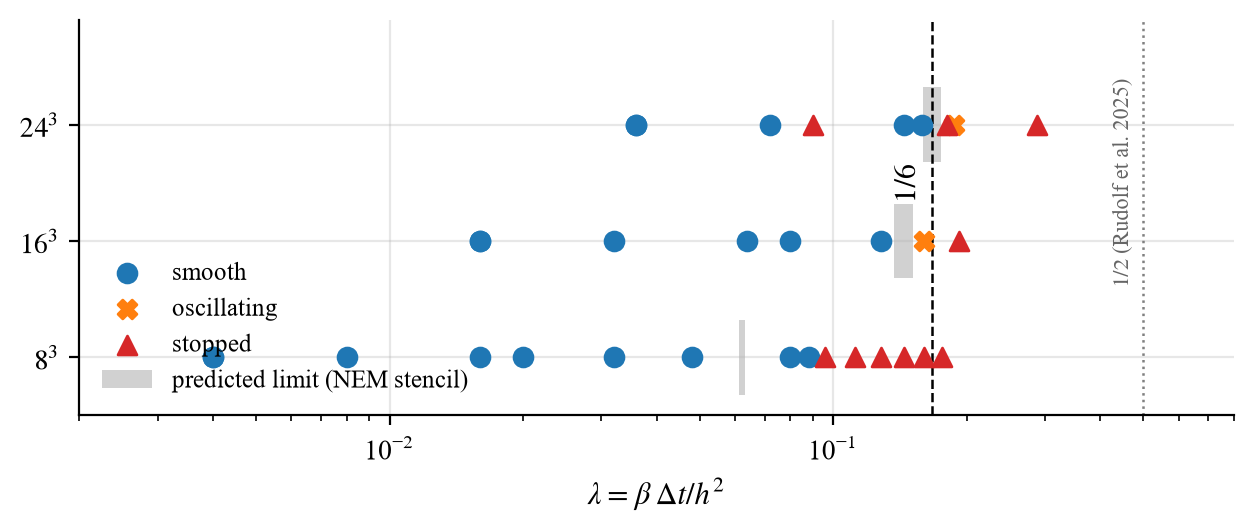
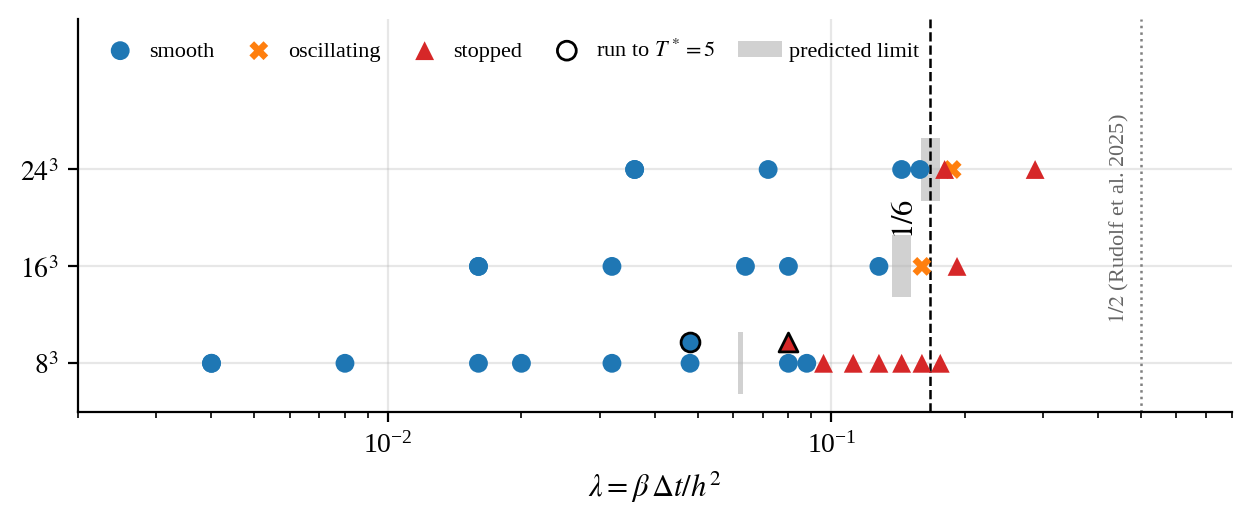
Thesis: the 8^3 runs to T* = 5 confirm the predicted stability limit
lambda 0.080 stops at T* = 1.65, 0.048 stays smooth to T* = 5, so the 8^3
limit lies between 0.048 and 0.080, in agreement with 0.062; the bracket of
the runs to T* = 1.1 (0.088-0.096) was an artefact of the short runs.
Appendix D text, table and figure, the ch4 time-step paragraph and the
stability figure caption say so. The stability figure marks runs to T* = 5
with a black edge and leaves out the 24^3 run that hung in the solver.
IKMHIWI03 notes: reply on the figure; no IKMHIWI03 on 10-11 Oct, so its
thesis work ends on 9 Oct.

diff --git a/thesis/chapters/appendix_stability.tex b/thesis/chapters/appendix_stability.tex
@@ -60,8 +60,8 @@ analysis predicts.
     limit of the explicit field update from the Bloch analysis, against the
     number of elements per edge, for $30$, $32$ and $56$ neighbours with
     $\beta^*=0.2$~mm; bars: the runs of the element, from the largest smooth
-    to the smallest oscillating $\lambda$ (Figure~\ref{fig:ch5-stability});
-    on $8^3$ runs to $T^*=1.1$, which lie above the limit (see the text).}
+    to the smallest oscillating or stopped $\lambda$
+    (Figure~\ref{fig:ch5-stability}); on $8^3$ the runs to $T^*=5$.}
   \label{fig:app-stability}
 \end{figure}
 
@@ -72,23 +72,23 @@ agreement with the computed values. The unstable mode on these meshes is
 the alternation of sign between neighbouring points, which is what the
 oscillating runs show in $\alpha-1$.
 
-On $8^3$ the runs at $\beta=0.1$~mm$^2/T^*$ stay smooth up to $\lambda=0.088$
-and stop at $0.096$, above the computed limit of $0.062$. The spectral radius
-of the operator on the finite $8^3$ cube, where each point fits its stencil
-over the $30$ nearest points that exist, gives the same limit, $0.063$, so
-the boundary does not explain the difference. The initial field does: $\phi$
-is constant in each element, and its component along the unstable mode is
-$8\times10^{-7}$ of its norm. A run to $T^*=1.1$ takes only $18$ to $22$
-steps on $8^3$, and the growth factor per step, $|1-2\lambda/\lambda_{\max}|$,
-is $1.5$ to $2.1$ between $\lambda=0.08$ and $0.096$, so the mode reaches the
-size of $\phi$ only near the end of the run. Marching the same seed problem
-with the finite-cube operator reproduces this: $\alpha-1$ stays positive up
-to $\lambda=0.048$, turns slightly negative at $0.080$ ($-1\times10^{-5}$)
-and fails from $0.088$ on. The time at which an unstable run shows itself
-therefore depends on the number of steps and on the initial field, and the
-bracket of a short run lies above the limit. On the finer meshes, where the
-growth factor near the limit is smaller, the brackets and the computed
-limits agree.
+On $8^3$ the runs at $\beta=0.1$~mm$^2/T^*$ to $T^*=1.1$ stay smooth up to
+$\lambda=0.088$ and stop at $0.096$, above the computed limit of $0.062$. The
+spectral radius of the operator on the finite $8^3$ cube, where each point
+fits its stencil over the $30$ nearest points that exist, gives the same
+limit, $0.063$, so the boundary does not explain the difference. The initial
+field does: $\phi$ is constant in each element, and its component along the
+unstable mode is $8\times10^{-7}$ of its norm. A run to $T^*=1.1$ takes only
+$18$ to $22$ steps on $8^3$, and the growth factor per step,
+$|1-2\lambda/\lambda_{\max}|$, is $1.5$ to $2.1$ between $\lambda=0.08$ and
+$0.096$, so the mode reaches the size of $\phi$ only near the end of the run.
+Marching the same seed problem with the finite-cube operator reproduces this.
+I therefore predicted that longer runs show the limit, and two runs to
+$T^*=5$ confirm it: at $\lambda=0.080$ the elements collapse at $T^*=1.65$,
+at $\lambda=0.048$ the run stays smooth to the end. The limit on $8^3$ lies
+between $0.048$ and $0.080$, in agreement with $0.062$. A run judged stable
+must therefore be long enough for the unstable mode to grow; on the finer
+meshes the brackets of the runs to $T^*=1.1$ agree with the computed limits.
 
 \begin{table}[htbp]
   \centering
@@ -96,8 +96,8 @@ limits agree.
     $\lambda_{\max}=\beta\Delta t/h^2$ of the explicit update with the NEM
     stencil on the integration-point lattice, from the Bloch analysis;
     $\beta^*=0.2$~mm as in the element, and the unweighted limit. Last row:
-    the largest smooth and the smallest oscillating $\lambda$ of the runs
-    to $T^*=1.1$; $^{a}$the run stopped (see the text).}
+    the largest smooth and the smallest oscillating or stopped $\lambda$ of the
+    runs; $^{a}$runs to $T^*=5$, the others to $T^*=1.1$ (see the text).}
   \label{tab:app-stability}
   \small
   \begin{tabular}{lcccc}
@@ -106,7 +106,7 @@ limits agree.
     \midrule
     $N=30$ neighbours & $0.062$ & $0.139$ & $0.162$ & $0.185$ \\
     $N=32$ neighbours & $0.062$ & $0.149$ & $0.173$ & $0.180$ \\
-    runs: smooth / oscillating & $0.088$ / $0.096^{a}$ & $0.128$ / $0.160$ & $0.158$ / $0.187$ & \\
+    runs: smooth / failing & $0.048$ / $0.080^{a}$ & $0.128$ / $0.160$ & $0.158$ / $0.187$ & \\
     \bottomrule
   \end{tabular}
 \end{table}

diff --git a/ansys_usermat/apdl/wp3_figs.py b/ansys_usermat/apdl/wp3_figs.py
@@ -59,9 +59,16 @@ def deck_values(rec, name):
     return n, float(dt.group(1)) if dt else 0.025, b
 
 
+# runs that ended for a reason other than stability: the 24^3 beta 0.05 run hung for 17 h after
+# ANSYS switched from PCG to the sparse solver at T* = 0.025 and was stopped by hand (lambda 0.09)
+NOT_STABILITY = {"wp3d_n24_b005_dt00125"}
+
+
 def classify():
     rows = []
     for j in sorted(FIX.glob("wp3[cde]_*.json")) + [SURF / "ds8_beta002_dt4.json", SURF / "ds16_beta002_dt4.json"]:
+        if j.stem in NOT_STABILITY:
+            continue
         rec = json.loads(j.read_text())
         n, dt, beta = deck_values(rec, j.stem)
         lam = beta * dt / (L / n) ** 2
@@ -80,11 +87,19 @@ def fig_stability():
     fig, ax = plt.subplots(figsize=(6.4, 2.8))
     style = {"smooth": ("o", "C0"), "oscillating": ("X", "C1"), "stopped": ("^", "C3")}
     ypos = {8: 0, 16: 1, 24: 2}
+    # runs to T* = 5 (name ends in _T5) sit slightly above their mesh row with a black edge:
+    # at T* = 1.1 an unstable mode can stay invisible above the limit (8^3, Appendix D)
     for state, (mk, col) in style.items():
-        pts = [(lam, ypos[n]) for lam, n, s, _ in rows if s == state]
-        if pts:
-            x, y = zip(*pts)
-            ax.scatter(x, y, marker=mk, color=col, s=46, label=state, zorder=3)
+        for long_run in (False, True):
+            pts = [(lam, ypos[n] + (0.22 if long_run else 0.0)) for lam, n, s, name in rows
+                   if s == state and name.endswith("_T5") == long_run]
+            if pts:
+                x, y = zip(*pts)
+                ax.scatter(x, y, marker=mk, color=col, s=46, zorder=3,
+                           edgecolors="k" if long_run else "none", linewidths=1.0,
+                           label=None if long_run else state)
+    if any(name.endswith("_T5") for *_, name in rows):
+        ax.scatter([], [], marker="o", facecolors="none", edgecolors="k", s=46, label=r"run to $T^*=5$")
     # predicted limit of the NEM stencil on the integration-point lattice
     # (nem_stability.py: 30 or 32 neighbours, beta* = 0.2 mm)
     pred = FIX / "nem_stability.json"
@@ -97,7 +112,7 @@ def fig_stability():
             if lams:
                 lo, hi = min(lams) * 0.985, max(lams) * 1.015
                 ax.fill_betweenx([y - 0.32, y + 0.32], lo, hi, color="k", alpha=0.18, lw=0,
-                                 zorder=1, label="predicted limit (NEM stencil)" if first else None)
+                                 zorder=1, label="predicted limit" if first else None)
                 first = False
     ax.axvline(1 / 6, color="k", lw=0.9, ls="--")
     ax.text(1 / 6 * 0.95, 1.5, r"$1/6$", ha="right", va="center", rotation=90)
@@ -106,10 +121,10 @@ def fig_stability():
             color="0.4", fontsize=8)
     ax.set_xscale("log")
     ax.set_xlim(2e-3, 0.8)
-    ax.set_ylim(-0.5, 2.9)
+    ax.set_ylim(-0.5, 3.55)
     ax.set_yticks([0, 1, 2], [r"$8^3$", r"$16^3$", r"$24^3$"])
     ax.set_xlabel(r"$\lambda=\beta\,\Delta t/h^2$")
-    ax.legend(loc="lower left", frameon=False, fontsize=9)
+    ax.legend(loc="upper left", frameon=False, fontsize=8, ncol=5, columnspacing=1.0, handletextpad=0.3)
     fig.tight_layout()
     out = ASSETS / "fig_wp3_stability.png"
     fig.savefig(out, dpi=200)

diff --git a/thesis/chapters/ch4_ansys.tex b/thesis/chapters/ch4_ansys.tex
@@ -317,9 +317,9 @@ Bloch analysis of the NEM stencil on the lattice of the integration points
 unweighted fit, because the lattice is not uniform, and the Gaussian weight
 of the fit, whose width $\beta^*=0.2$~mm is fixed in millimetres, lowers it on
 coarse meshes to $0.14$ to $0.15$ on $16^3$ and $0.16$ to $0.17$ on $24^3$,
-within the brackets of the runs, and to about $0.06$ on $8^3$. On $8^3$ the
-runs stay smooth up to $\lambda=0.088$ within $T^*=1.1$, because the
-unstable mode grows from a very small start; the appendix explains this. Every run in
+within the brackets of the runs, and to about $0.06$ on $8^3$, where runs
+to $T^*=5$ stay smooth at $\lambda=0.048$ and stop at $0.080$. Runs to
+$T^*=1.1$ are too short to show the limit on $8^3$ (Appendix~\ref{app:stability}). Every run in
 this chapter has $\lambda\le0.128$ on $16^3$ and finer meshes and
 $\lambda\le0.04$ on $8^3$ (the $16^3$ run at $\beta=0.1$ uses
 $\Delta t=0.0125$).
@@ -331,7 +331,8 @@ $\Delta t=0.0125$).
     $\lambda=\beta\Delta t/h^2$. Smooth: the run reaches the end time with
     $\alpha-1\ge0$ and no oscillation between neighbouring elements;
     oscillating: it reaches the end time, but $\alpha-1$ alternates in sign;
-    stopped: elements collapse before the end time. Grey: the limit of the NEM
+    stopped: elements collapse before the end time. End time $T^*=1.1$; black
+    edge: the two $8^3$ runs to $T^*=5$. Grey: the limit of the NEM
     stencil from the Bloch analysis of Appendix~\ref{app:stability} (30 to 32
     neighbours). Dashed: $1/6$, the limit of the seven-point stencil in three
     dimensions; dotted: $1/2$, the condition given by Rudolf et

diff --git a/ansys_usermat/apdl/nem_stability.py b/ansys_usermat/apdl/nem_stability.py
@@ -221,7 +221,7 @@ def draw(cases, fig_path):
     ax.axhline(1 / 6, color="k", ls="--", lw=0.9)
     ax.text(8.2, 1 / 6 + 0.003, r"$1/6$, seven-point stencil", fontsize=8, va="bottom")
     # brackets of the element's runs: largest smooth and smallest oscillating lambda
-    runs = {8: (0.088, 0.096), 16: (0.128, 0.160), 24: (0.158, 0.187)}   # 8^3: runs to T* = 1.1 only, see Appendix D
+    runs = {8: (0.048, 0.080), 16: (0.128, 0.160), 24: (0.158, 0.187)}   # 8^3: runs to T* = 5 (Appendix D)
     first = True
     for m, (lo, hi) in runs.items():
         if hi is None:

diff --git a/ansys_usermat/apdl/IKMHIWI03_TO_SUBMISSION.ja.md b/ansys_usermat/apdl/IKMHIWI03_TO_SUBMISSION.ja.md
@@ -4,9 +4,13 @@
 
 修論は12日（月）の朝に凍結する。11日夜までに push されたものだけが修論に入る。
 
+**10・11日（土日）は IKMHIWI03 を使えない（ユーザー、9日）。** 修論に入る IKMHIWI03 の作業は9日（金）で終わり：
+16³ の2本（表 4.3 の † を差し替え済み）、8³ の安定限界（T* = 5 の2本まで、付録 D に入れた）。
+週明けの IKMHIWI03 は旅行の列（12〜20日に組む）から。
+
 | 順 | やること | 締切 | 状態 |
 |---|---|---|---|
-| 1 | **16³ の再計算2本**（`w16_1sp_b005`、`w16_1sp_b01_dt00125`、表面を直した exe）の JSON を `results/2026-10-07_surface_fix/` に push | 11日夜 | 登録済み、WP3 の D の後ろ（9日0時ごろ、自動で push） |
+| 1 | **16³ の再計算2本**（`w16_1sp_b005`、`w16_1sp_b01_dt00125`、表面を直した exe）の JSON を `results/2026-10-07_surface_fix/` に push | 11日夜 | **済（9日 12:47）**。表 4.3 の † を差し替えた |
 | 2 | **修論 ch4 の図を3枚作り直す**（下の第6節）。Fig 4.4、4.8、4.9 がサンセリフの古い PNG のまま | 11日夜 | **済（8日）**。Times、α − 1、題の内部の名前を外した。Fig 4.9 の縦軸はキャプションどおり "the element's own growth variable" |
 | 3 | WP3 の D の残り（24³・λ = 0.158 ほか）を回し切って JSON を push | 止めない | **済（9日）**。24³・β 0.05・Δt 0.0125 は止まったので旅行中の列で Δt 0.00625 に |
 | 4 | 第5節 WP2 の Abaqus 12本の `compare_wp2.md` | 急がない | **済（7日）**：`abaqus_composition/results_1007/compare_wp2.md` |

diff --git a/ansys_usermat/apdl/IKMHIWI03_TO_CLOUD.ja.md b/ansys_usermat/apdl/IKMHIWI03_TO_CLOUD.ja.md
@@ -157,3 +157,12 @@ JSON を `results/2026-10-wp3_fix/` に push。
 - `wp3e_n8_b01_dt005_T5`（λ 0.080）：T* = 1.65 で要素がつぶれて止まった。
 - `wp3e_n8_b01_dt003_T5`（λ 0.048）：T* = 5 まで滑らか（α − 1 の最小 +2.5e−4）。
 8³ の限界は 0.048〜0.080。付録 D の 0.062 でよい。安定の判定は T* = 1.1 では足りないので、旅行の列の E1（16³・24³）は T* = 5 で回す（`RUN_WP3_IKMHIWI03.md`）。`wp3_figs.py` の安定の図は、次に描くと T* = 5 の 2 点が混ざる：8³ は T* = 5 の点だけにするか、T* で印を分ける。どちらにするか決めてほしい（こちらで直せる）。
+
+## クラウドから（10月9日 夕）：T* = 5 の2本について
+
+受け取った（c513dd5、8b3cadf）。予測どおりなので付録 D を「8³ の限界は 0.048〜0.080、予測 0.062 と合う。T* = 1.1 の
+0.088〜0.096 は見かけ」に書き直した。安定の図（`fig_wp3_stability.png`）は **T* で印を分ける**ことにした：T* = 5 の
+実行は名前の末尾 `_T5` で見分け、同じ行の少し上に黒い縁で描く（凡例「run to T* = 5」）。T* = 1.1 の点も残す（短い実行が
+見かけの境目を出すこと自体が付録 D の結果なので）。止まったまま手で止めた 24³・β 0.05・Δt 0.0125 は安定の問題では
+ないので図から外した（`wp3_figs.py` の `NOT_STABILITY`）。旅行の列の E1 を T* = 5 にしたのはそれでよい。T* = 5 の実行は
+名前を `_T5` で終わらせること（図がそれで見分ける）。
